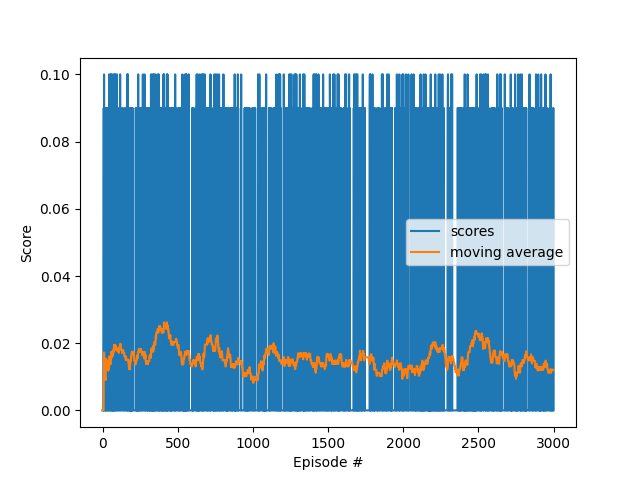
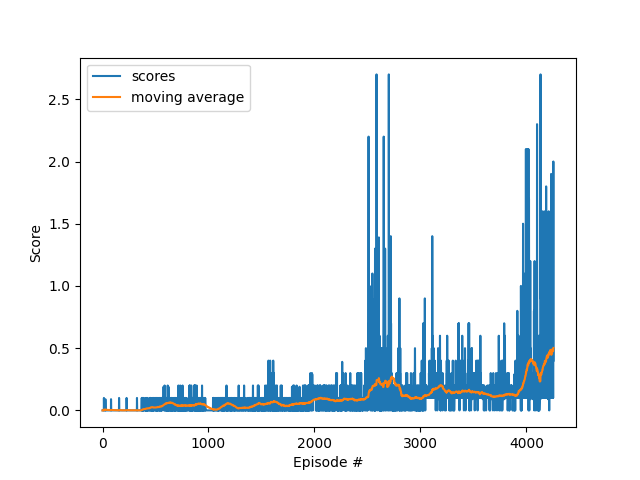
Solved in 4200 episode with (64, 64) for both networks hiden layer

diff --git a/ddpg_agent.py b/ddpg_agent.py
@@ -6,40 +6,46 @@ import torch.optim as optim
 from device import device
 from model import ActorNet, CriticNet, FCBody
 from ou_noise import OUNoise
+from torch.optim.lr_scheduler import ExponentialLR
 
 GAMMA = 0.99  # discount factor
 TAU = 1e-3  # for soft update of target parameters
-LR_ACTOR = 5.e-3  # learning rate of the actor
-LR_CRITIC = 5.e-4  # learning rate of the critic
+LR_ACTOR = 3.e-3  # learning rate of the actor
+LR_CRITIC = 3.e-4  # learning rate of the critic
 WEIGHT_DECAY = 0  # L2 weight decay
 
 
 class DDPG_Agent(object):
-    def __init__(self, state_dim, action_dim, agent_id, n_agents, seed=10, update_interval=1, n_updates=1):
+    def __init__(self, state_dim, action_dim, agent_id, n_agents, seed, update_interval=1, n_updates=1):
         print("Using device: ", device)
         self.seed = seed
         self._agent_id = agent_id
         self._n_agents = n_agents
         np.random.seed(seed)
-        self._actor_local = ActorNet(action_dim, FCBody(state_dim, (64, 64), seed), seed)
-        self._actor_target = ActorNet(action_dim, FCBody(state_dim, (64, 64), seed), seed)
+        hidden_units = (64,64)
+        self._actor_local = ActorNet(action_dim, FCBody(state_dim, hidden_units, seed), seed)
+        self._actor_target = ActorNet(action_dim, FCBody(state_dim, hidden_units, seed), seed)
         self._actor_optimizer = optim.Adam(self._actor_local.parameters(), lr=LR_ACTOR)
 
-        self._critic_local = CriticNet(FCBody((state_dim + action_dim) * self._n_agents, (64, 64), seed),
+        state_feature_out = 64
+        hidden_units = (64,)
+        self._critic_local = CriticNet(FCBody(state_dim * self._n_agents, (state_feature_out,), seed),
+                                       FCBody(state_feature_out + action_dim * self._n_agents, hidden_units, seed),
                                        seed)
-        self._critic_target = CriticNet(FCBody((state_dim + action_dim) * self._n_agents, (64, 64), seed),
+        self._critic_target = CriticNet(FCBody(state_dim * self._n_agents, (state_feature_out,), seed),
+                                        FCBody(state_feature_out + action_dim * self._n_agents, hidden_units, seed),
                                         seed)
         self._critic_optimizer = optim.Adam(self._critic_local.parameters(), lr=LR_CRITIC, weight_decay=WEIGHT_DECAY)
         self._ou_noise = OUNoise(action_dim, seed)
-        self._noise_decay = 0.99
+        self._noise_decay_base = 0.98
+        self._noise_decay = 1
 
         self.soft_update(self._actor_local, self._actor_target, 1)
         self.soft_update(self._critic_local, self._critic_target, 1)
-        self._t = 0
-        self._update_interval = update_interval
-        self._n_updates = n_updates
 
-        # summary(self._actor_local, (state_dim,))
+        lr_decay = 0.999
+        self._actor_scheduler = ExponentialLR(self._actor_optimizer, gamma=lr_decay)
+        self._critic_scheduler = ExponentialLR(self._critic_optimizer, gamma=lr_decay)
 
         print(self._actor_local)
         print(self._critic_local)
@@ -57,8 +63,14 @@ class DDPG_Agent(object):
     def load_actor_model(self, model):
         self._actor_local.load_state_dict(torch.load(model))
 
-    def reset(self):
+    def reset_noise(self, n_episode):
         self._ou_noise.reset()
+        self._noise_decay = self._noise_decay_base ** (n_episode / 6)
+
+    def step_scheduler(self, n_episode):
+        if n_episode%20==0:
+            self._actor_scheduler.step()
+            self._critic_scheduler.step()
 
     def critic_learn(self, obs, actions, next_actions, next_obs, rewards, dones):
         # target_return = rewards + GAMMA * self._critic_target(next_states, next_actions).detach()
@@ -72,7 +84,6 @@ class DDPG_Agent(object):
 
         self._critic_optimizer.zero_grad()
         critic_loss.backward()
-        # torch.nn.utils.clip_grad_norm_(self._critic_local.parameters(), 10)
         self._critic_optimizer.step()
 
     def actor_learn(self, obs, local_actions):
@@ -80,7 +91,7 @@ class DDPG_Agent(object):
 
         self._actor_optimizer.zero_grad()
         actor_loss.backward()
-        # torch.nn.utils.clip_grad_norm_(self._actor_local.parameters(), 15)
+        torch.nn.utils.clip_grad_norm_(self._actor_local.parameters(), 0.1)
         self._actor_optimizer.step()
 
         # al = actor_loss.cpu().detach().item()
@@ -114,6 +125,7 @@ class DDPG_Agent(object):
         return actions
 
     def act(self, states, n_episode, noise_stddev=0.05):
+        states = states[np.newaxis,...]
         states = torch.from_numpy(states).float().to(device)
         self._actor_local.eval()
         with torch.no_grad():
@@ -123,8 +135,10 @@ class DDPG_Agent(object):
         if noise_stddev > 0:
             noise = self._ou_noise.sample()
             # noise = np.random.normal(0, noise_stddev, np.shape(actions))
-
-            noise_decay = self._noise_decay ** (n_episode / 10)
-            noise *= noise_decay
+            # if (n_episode%100==0):
+            #     print(n_episode, self._noise_decay)
+            noise *= self._noise_decay
+            # if n_episode%100==0:
+            #     print("episode: {} decay: {}, noise: {}".format(n_episode, noise_decay, noise))
             actions += noise
         return np.clip(actions, -1, 1)  # all actions between -1 and 1

diff --git a/tennis.py b/tennis.py
@@ -4,7 +4,6 @@ from collections import deque
 import matplotlib.pyplot as plt
 import numpy as np
 import torch
-from torch.optim.lr_scheduler import ExponentialLR
 from unityagents import UnityEnvironment
 
 from multi_agents import MultiAgents
@@ -59,7 +58,7 @@ class Environment(object):
         self._multi_agents.load_actor_model(actor_model)
         scores = []
         for i in range(num_episode):
-            env_info = self._env.reset(train_mode=False)[self._brain_name]
+            env_info = self._env.step(train_mode=False)[self._brain_name]
             states = get_next_states(env_info)
             score = 0
             for j in range(steps_per_episode):
@@ -78,7 +77,7 @@ class Environment(object):
     def close(self):
         self._env.close()
 
-    def train(self, min_score, n_episodes=3000, max_t=1000):
+    def train(self, min_score, n_episodes=10000, max_t=1000):
         """Deep Q-Learning.
             Params
             ======
@@ -91,17 +90,12 @@ class Environment(object):
         scores = []  # list containing scores from each episode
         moving_average_scores = []
         scores_window = deque(maxlen=100)  # last 100 scores
-        noise = 0.1
-
-        lr_decay = 0.98
-        # actor_scheduler = ExponentialLR(self._multi_agents.get_actor_optimizer(), gamma=lr_decay)
-        # critic_scheduler = ExponentialLR(self._multi_agents.get_critic_optimizer(), gamma=lr_decay)
+        noise = 0.5
 
         print("use_noise:", noise)
 
         for i_episode in range(1, n_episodes + 1):
             env_info = self._env.reset(train_mode=True)[self._brain_name]
-            self._multi_agents.reset()
             states = get_next_states(env_info)
             score = np.zeros((2,1))
             for t in range(max_t):
@@ -111,13 +105,12 @@ class Environment(object):
                 feed_in_rewards = rewards
                 if self._share_rewards:
                     feed_in_rewards = np.mean(rewards)*np.ones((2,1))
-                self._multi_agents.step(states, np.asarray(actions), feed_in_rewards, next_states, dones)
+                self._multi_agents.learn_step(states, np.asarray(actions), feed_in_rewards, next_states, dones)
                 score += rewards  # update the score
                 states = next_states  # roll over the state to next time step
                 if dones.any():
                     break
-            # actor_scheduler.step()
-            # critic_scheduler.step()
+            self._multi_agents.step(i_episode)
             max_score=np.max(score)
 
             scores_window.append(max_score)  # save most recent score
@@ -126,9 +119,9 @@ class Environment(object):
             moving_average_scores.append(mean_score)
             if i_episode % 100 == 0:
                 print('\rEpisode {}\tAverage Score: {:.2f}'.format(i_episode, mean_score))
-            if i_episode > 100 and np.mean(scores_window) >= min_score:
+            if i_episode > 100 and mean_score >= min_score:
                 print('\nEnvironment solved in {:d} episodes!\tAverage Score: {:.2f}'.format(i_episode,
-                                                                                             np.mean(scores_window)))
+                                                                                             mean_score))
                 self._multi_agents.save_models()
                 break
 

diff --git a/model.py b/model.py
@@ -1,7 +1,7 @@
+import numpy as np
 import torch
 import torch.nn as nn
 import torch.nn.functional as F
-import numpy as np
 
 from device import device
 
@@ -10,24 +10,29 @@ def layer_init(layer, bound=None):
     # nn.init.orthogonal_(layer.weight.data)
     # layer.weight.data.mul_(w_scale)
     if bound is None:
-        bound = 1/np.sqrt(layer.in_features)
+        bound = 1 / np.sqrt(layer.in_features)
     nn.init.uniform_(layer.bias.data, -bound, bound)
     nn.init.uniform_(layer.weight.data, -bound, bound)
     return layer
 
 
 class FCBody(nn.Module):
-    def __init__(self, state_dim, hidden_units=(64, 64), seed=0, gate=F.relu):
+    def __init__(self, state_dim, hidden_units=(64, 64), seed=0, bn=True, gate=F.relu):
         super(FCBody, self).__init__()
         self.seed = torch.manual_seed(seed)
         dims = (state_dim,) + hidden_units
+        self._bn=bn
+        self.bn = nn.BatchNorm1d(state_dim)
         self.layers = nn.ModuleList(
             [layer_init(nn.Linear(dim_in, dim_out)) for dim_in, dim_out in zip(dims[:-1], dims[1:])])
 
         self.gate = gate
         self.feature_dim = dims[-1]
+        self.in_features = state_dim
 
     def forward(self, x):
+        if self._bn:
+            x = self.bn(x)
         for layer in self.layers:
             x = self.gate(layer(x))
         return x
@@ -59,20 +64,25 @@ class ActorNet(nn.Module):
 
 class CriticNet(nn.Module):
     def __init__(self,
+                 state_body,
                  critic_body,
                  seed,
                  ):
         super(CriticNet, self).__init__()
         self.seed = torch.manual_seed(seed)
+
+        self.state_body = state_body
         self.critic_body = critic_body
         self.fc_critic = layer_init(nn.Linear(critic_body.feature_dim, 1), 3e-4)
 
-        self.critic_params = list(self.critic_body.parameters()) + list(self.fc_critic.parameters())
+        self.critic_params = list(self.critic_body.parameters()) + list(self.fc_critic.parameters()) + list(
+            self.state_body.parameters())
 
         self.to(device)
 
     def forward(self, obs, action):
-        xs = torch.cat((obs, action), dim=1)
+        xs = self.state_body(obs)
+        xs = torch.cat((xs, action), dim=1)
         xs = self.critic_body(xs)
         value = self.fc_critic(xs)
         return value

diff --git a/multi_agents.py b/multi_agents.py
@@ -9,11 +9,12 @@ BATCH_SIZE = 64  # minibatch size
 
 
 class MultiAgents(object):
-    def __init__(self, n_agents, state_dim, action_dim, seed=42):
-        self._agents = [DDPG_Agent(state_dim, action_dim, agent_id, n_agents) for agent_id in range(n_agents)]
+    def __init__(self, n_agents, state_dim, action_dim, seed=1):
+        self._agents = [DDPG_Agent(state_dim, action_dim, agent_id, n_agents, seed) for agent_id in range(n_agents)]
         self._replay_buffer = ReplayBuffer(BUFFER_SIZE, BATCH_SIZE, seed)
         self._n_agents = n_agents
         self._action_dim = action_dim
+        self._n_updates=2
 
     def _get_exp_values_by_agent(self, values, agent_id):
         return values[agent_id::self._n_agents, :]
@@ -27,9 +28,13 @@ class MultiAgents(object):
         actions = [agent.act(obs, i_episode, noise) for agent, obs in zip(self._agents, obs_all_agents)]
         return actions
 
-    def reset(self):
+    def step(self, n_episode):
         for agent in self._agents:
-            agent.reset()
+            agent.reset_noise(n_episode)
+
+        if len(self._replay_buffer) > BATCH_SIZE:
+            for agent in self._agents:
+                agent.step_scheduler(n_episode)
 
     def _actions_local(self, states, current_agent):
         actions = torch.empty(
@@ -77,11 +82,11 @@ class MultiAgents(object):
         for agent in self._agents:
             agent.soft_update_target_weights()
 
-    def step(self, states, actions, rewards, next_states, dones):
+    def learn_step(self, states, actions, rewards, next_states, dones):
         experience = (states, actions, rewards, next_states, dones)
         self._replay_buffer.add(experience)
         # Learn, if enough samples are available in memory
         if len(self._replay_buffer) > BATCH_SIZE:
             # if self._t % self._update_interval == 0:
-            #     for _ in range(self._n_updates):
-            self._learn()
+            for _ in range(self._n_updates):
+                self._learn()

diff --git a/ou_noise.py b/ou_noise.py
@@ -5,7 +5,7 @@ import random
 class OUNoise:
     """Ornstein-Uhlenbeck process."""
 
-    def __init__(self, size, seed, mu=0., theta=0.9, sigma=0.01):
+    def __init__(self, size, seed, mu=0., theta=0.5, sigma=0.1):
         """Initialize parameters and noise process."""
         self.mu = mu * np.ones(size)
         self.theta = theta
